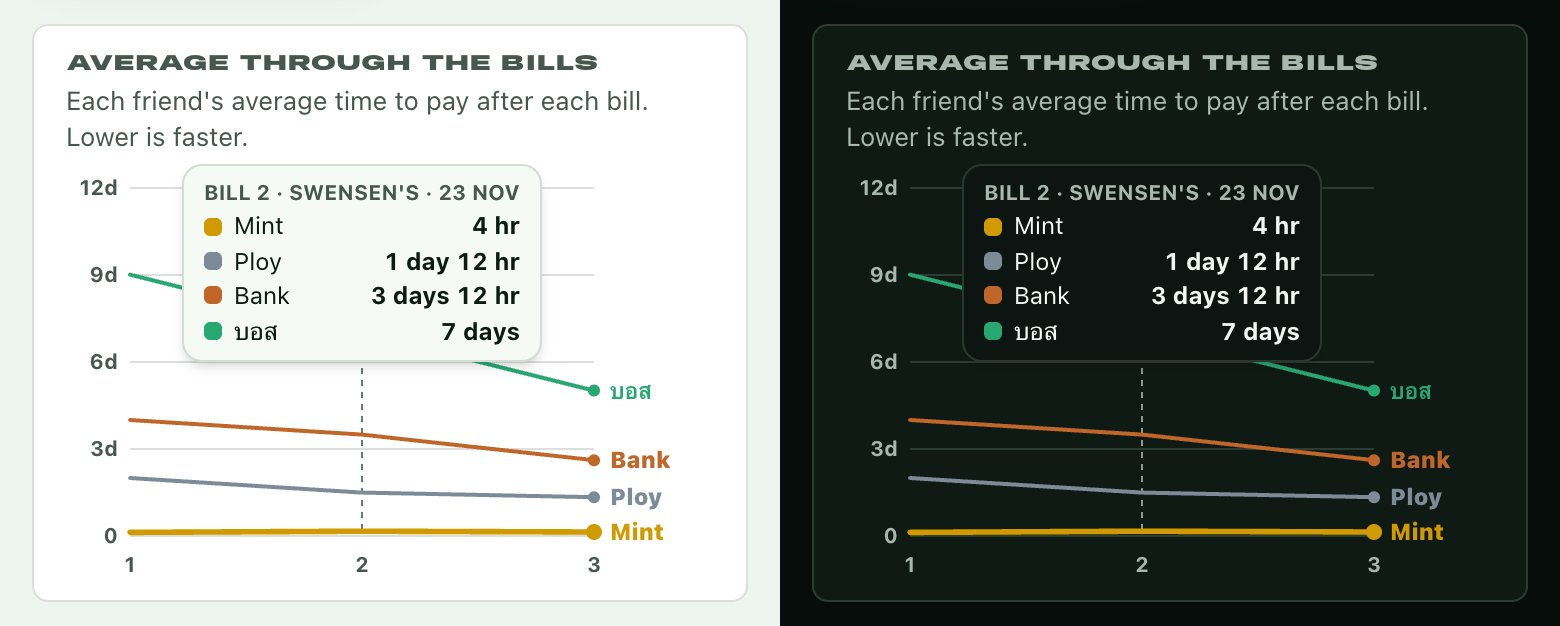
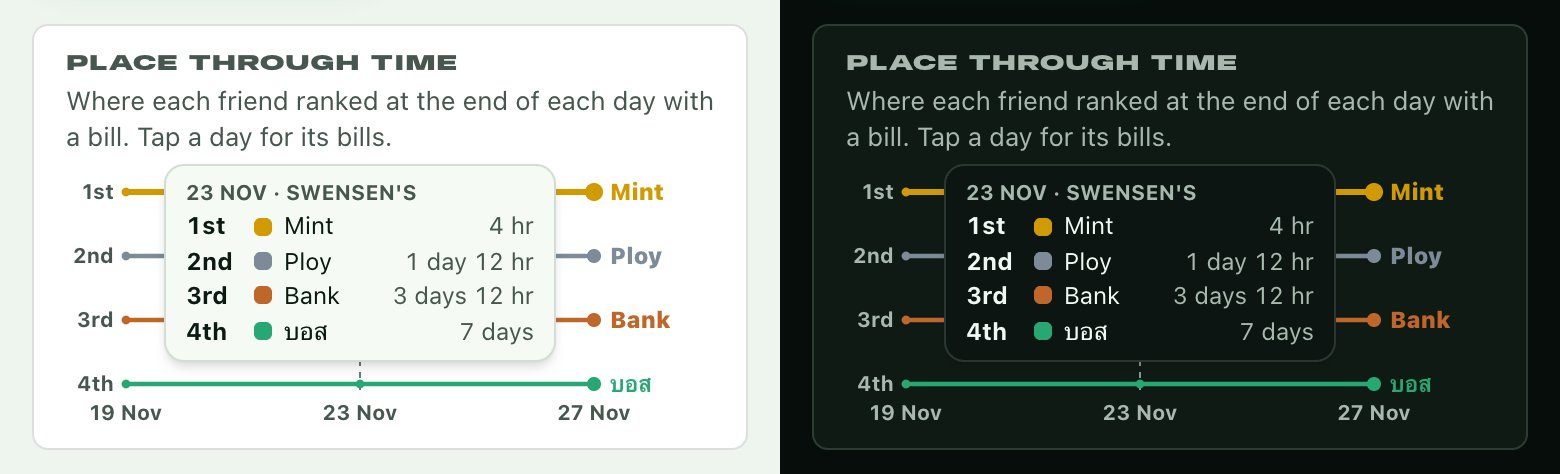
Who pays fastest: the chart shows places, a day at a time
Place through time: the days with bills along the bottom (a day's bills
count as one step), 1st at the top, and each friend's place at the end of
each day, ending at today's ranking. A tapped day lists its bills and
everyone's place and average then. payChart works out the days and places.
README and screenshot.

diff --git a/src/components/FastestChart.tsx b/src/components/FastestChart.tsx
@@ -3,42 +3,35 @@
 import { useEffect, useRef, useState } from "react";
 import { duration } from "@/lib/owed";
 
-export interface ChartBill {
-  title: string;
-  /** the bill's day, YYYY-MM-DD */
+export interface ChartDay {
+  /** YYYY-MM-DD */
   day: string;
+  /** that day's bills */
+  titles: string[];
 }
 export interface ChartLine {
   name: string;
-  /** place in the ranking, 1 = fastest */
+  /** place in the ranking now, 1 = fastest */
   place: number;
-  /** their average time to pay after each bill (ms); null before their first bill */
+  /** their average time to pay at the end of each day (ms); null before their first bill */
   vals: (number | null)[];
+  /** their place at the end of each day; null before their first bill */
+  places: (number | null)[];
 }
 
 /** Line colours by place: the podium's, deep enough to read as lines; everyone else dashed grey. */
 const STROKE = ["#D19A00", "#7D8A97", "#C0662A", "#27A873", "#3A86D0"];
 const strokeOf = (place: number) => STROKE[place - 1] ?? "var(--ink-3)";
-
-const M = 60_000;
-const H = 60 * M;
-const D = 24 * H;
-const STEPS = [5 * M, 10 * M, 15 * M, 30 * M, H, 2 * H, 3 * H, 6 * H, 12 * H, D, 2 * D, 3 * D, 5 * D, 7 * D, 14 * D, 30 * D];
-/** A round top for the axis, about four gridlines. */
-function scale(max: number) {
-  const step = STEPS.find((s) => s >= max / 4) ?? Math.ceil(max / 4 / (30 * D)) * 30 * D;
-  return { top: Math.max(step, Math.ceil(max / step) * step), step };
-}
-const tick = (v: number) => (v === 0 ? "0" : v % D === 0 ? `${v / D}d` : v % H === 0 ? `${v / H}h` : `${Math.round(v / M)}m`);
+const ordinal = (n: number) => `${n}${n % 100 >= 11 && n % 100 <= 13 ? "th" : (["th", "st", "nd", "rd"][n % 10] ?? "th")}`;
 const shortDay = (day: string) => new Date(`${day}T12:00:00+07:00`).toLocaleDateString("en-GB", { day: "numeric", month: "short", timeZone: "Asia/Bangkok" });
 
 /**
- * "Average through the bills", like a season's points chart: bills along the bottom in the
- * order they started, and each friend's average time to pay after each one (lower is
- * faster), so their line ends where the ranking puts them. The fastest gets a filled line;
- * tap or hover a bill for everyone's average there.
+ * "Place through time", like a season's positions chart: the days with bills along the
+ * bottom, 1st at the top, and a line per friend showing where they ranked at the end of each
+ * day (by average time to pay). Their line ends at today's place. Tap or hover a day for its
+ * bills and everyone's place and average then.
  */
-export function FastestChart({ bills, lines }: { bills: ChartBill[]; lines: ChartLine[] }) {
+export function FastestChart({ days, lines }: { days: ChartDay[]; lines: ChartLine[] }) {
   const box = useRef<HTMLDivElement>(null);
   const [w, setW] = useState(0);
   const [at, setAt] = useState<number | null>(null);
@@ -50,31 +43,22 @@ export function FastestChart({ bills, lines }: { bills: ChartBill[]; lines: Char
     return () => ro.disconnect();
   }, []);
 
-  const n = bills.length;
-  const h = w < 520 ? 210 : 250;
-  const L = 36, R = 64, T = 12, B = 24;
-  const all = lines.flatMap((l) => l.vals.filter((v): v is number => v !== null));
-  const { top, step } = scale(Math.max(H, ...all));
+  const n = days.length;
+  const people = lines.length;
+  const places = lines.map((l) => l.places);
+  const L = 34, R = 64, T = 14, B = 30;
+  // A row for each place.
+  const h = T + B + Math.max(1, people - 1) * (people > 6 ? 24 : 32);
   const x = (i: number) => L + (i * (w - L - R)) / Math.max(1, n - 1);
-  const y = (v: number) => T + (1 - v / top) * (h - T - B);
-  const every = Math.max(1, Math.ceil(n / Math.max(1, Math.floor((w - L - R) / 26))));
-  const path = (l: ChartLine) =>
-    l.vals
-      .map((v, i) => (v === null ? null : `${x(i).toFixed(1)},${y(v).toFixed(1)}`))
-      .reduce<string>((d, p) => (p === null ? d : `${d}${d ? "L" : "M"}${p}`), "");
+  const y = (p: number) => (people === 1 ? (T + h - B) / 2 : T + ((p - 1) * (h - T - B)) / (people - 1));
+  // Dates need about 44px each.
+  const every = Math.max(1, Math.ceil(n / Math.max(1, Math.floor((w - L - R) / 44))));
+  const path = (k: number) =>
+    places[k]
+      .map((p, i) => (p === null ? null : `${x(i).toFixed(1)},${y(p).toFixed(1)}`))
+      .reduce<string>((d, pt) => (pt === null ? d : `${d}${d ? "L" : "M"}${pt}`), "");
   // Slowest first, so the faster lines sit on top.
-  const drawn = [...lines].sort((a, b) => b.place - a.place);
-  const first = lines.find((l) => l.place === 1);
-  const firstStart = first ? first.vals.findIndex((v) => v !== null) : -1;
-
-  // Name labels at the line ends, pushed apart when lines finish close together.
-  const ends = lines
-    .filter((l) => l.vals[n - 1] !== null)
-    .map((l) => ({ l, y: y(l.vals[n - 1]!) }))
-    .sort((a, b) => a.y - b.y);
-  for (let k = 1; k < ends.length; k++) ends[k].y = Math.max(ends[k].y, ends[k - 1].y + 13);
-  const over = ends.length ? ends[ends.length - 1].y - (h - B) : 0;
-  if (over > 0) for (const e of ends) e.y -= over;
+  const drawn = lines.map((l, k) => ({ l, k })).sort((a, b) => b.l.place - a.l.place);
 
   function pick(clientX: number) {
     const el = box.current;
@@ -84,8 +68,14 @@ export function FastestChart({ bills, lines }: { bills: ChartBill[]; lines: Char
     for (let k = 0; k < n; k++) if (Math.abs(x(k) - px) < Math.abs(x(i) - px)) i = k;
     setAt(i);
   }
-  const tipRows = at === null ? [] : lines.filter((l) => l.vals[at] !== null).sort((a, b) => a.vals[at]! - b.vals[at]!);
-  const tipW = 180;
+  const tipRows =
+    at === null
+      ? []
+      : lines
+          .map((l, k) => ({ l, p: places[k][at], v: l.vals[at] }))
+          .filter((r): r is { l: ChartLine; p: number; v: number } => r.p !== null && r.v !== null)
+          .sort((a, b) => a.p - b.p);
+  const tipW = 196;
 
   return (
     <div
@@ -96,56 +86,49 @@ export function FastestChart({ bills, lines }: { bills: ChartBill[]; lines: Char
       onPointerLeave={(e) => e.pointerType === "mouse" && setAt(null)}
     >
       {w > 0 && (
-        <svg viewBox={`0 0 ${w} ${h}`} className="block h-auto w-full overflow-visible" role="img" aria-label="Average time to pay after each bill">
-          <defs>
-            <linearGradient id="fastest-fill" x1="0" x2="0" y1="0" y2="1">
-              <stop offset="0" stopColor={STROKE[0]} stopOpacity={0.26} />
-              <stop offset="1" stopColor={STROKE[0]} stopOpacity={0} />
-            </linearGradient>
-          </defs>
-          {Array.from({ length: Math.floor(top / step) + 1 }, (_, k) => k * step).map((v) => (
-            <g key={v}>
-              <line x1={L} x2={w - R} y1={y(v)} y2={y(v)} stroke="var(--line)" strokeWidth={1} />
-              <text x={L - 6} y={y(v) + 3.5} textAnchor="end" className="fill-ink-2 text-[10.5px] font-bold">
-                {tick(v)}
+        <svg viewBox={`0 0 ${w} ${h}`} className="block h-auto w-full overflow-visible" role="img" aria-label="Each friend's place at the end of each day with a bill">
+          {Array.from({ length: people }, (_, k) => k + 1).map((p) => (
+            <g key={p}>
+              <line x1={L} x2={w - R} y1={y(p)} y2={y(p)} stroke="var(--line)" strokeWidth={1} />
+              <text x={L - 6} y={y(p) + 3.5} textAnchor="end" className="fill-ink-2 text-[10.5px] font-bold">
+                {ordinal(p)}
               </text>
             </g>
           ))}
-          {bills.map((_, i) =>
+          {days.map((d, i) =>
             (n - 1 - i) % every === 0 ? (
-              <text key={i} x={x(i)} y={h - 6} textAnchor="middle" className="fill-ink-2 text-[10.5px] font-bold">
-                {i + 1}
+              <text key={d.day} x={x(i)} y={h - 6} textAnchor="middle" className="fill-ink-2 text-[10.5px] font-bold">
+                {shortDay(d.day)}
               </text>
             ) : null,
           )}
-          {at !== null && <line x1={x(at)} x2={x(at)} y1={T} y2={h - B} stroke="var(--ink-2)" strokeWidth={1} strokeDasharray="3 3" opacity={0.8} />}
-          {first && firstStart >= 0 && (
-            <path d={`${path(first)}L${x(n - 1)},${y(0)}L${x(firstStart)},${y(0)}Z`} fill="url(#fastest-fill)" />
-          )}
-          {drawn.map((l) => {
-            const last = l.vals[n - 1];
+          {at !== null && <line x1={x(at)} x2={x(at)} y1={T - 6} y2={h - B + 6} stroke="var(--ink-2)" strokeWidth={1} strokeDasharray="3 3" opacity={0.8} />}
+          {drawn.map(({ l, k }) => {
             const podium = l.place <= 5;
+            const last = places[k][n - 1];
             return (
               <g key={l.name + l.place}>
                 <path
-                  d={path(l)}
+                  d={path(k)}
                   fill="none"
                   stroke={strokeOf(l.place)}
-                  strokeWidth={l.place === 1 ? 2.8 : podium ? 2 : 1.6}
+                  strokeWidth={l.place === 1 ? 3 : podium ? 2.2 : 1.6}
                   strokeLinejoin="round"
                   strokeLinecap="round"
                   strokeDasharray={podium ? undefined : "4 4"}
                   opacity={podium ? 1 : 0.75}
                 />
-                {last !== null && <circle cx={x(n - 1)} cy={y(last)} r={l.place === 1 ? 4 : 3} fill={strokeOf(l.place)} />}
+                {/* A dot at each day, so a step reads as a day that changed things. */}
+                {places[k].map((p, i) => (p === null || i === n - 1 ? null : <circle key={i} cx={x(i)} cy={y(p)} r={2.2} fill={strokeOf(l.place)} />))}
+                {last !== null && <circle cx={x(n - 1)} cy={y(last)} r={l.place === 1 ? 4.5 : 3.5} fill={strokeOf(l.place)} />}
+                {last !== null && (
+                  <text x={x(n - 1) + 8} y={y(last) + 4} fill={strokeOf(l.place)} className="text-[11.5px] font-black">
+                    {l.name.length > 8 ? `${l.name.slice(0, 7)}…` : l.name}
+                  </text>
+                )}
               </g>
             );
           })}
-          {ends.map(({ l, y: ly }) => (
-            <text key={l.name + l.place} x={x(n - 1) + 8} y={ly + 4} fill={strokeOf(l.place)} className="text-[11.5px] font-black">
-              {l.name.length > 8 ? `${l.name.slice(0, 7)}…` : l.name}
-            </text>
-          ))}
         </svg>
       )}
       {at !== null && (
@@ -154,13 +137,14 @@ export function FastestChart({ bills, lines }: { bills: ChartBill[]; lines: Char
           style={{ left: Math.min(Math.max(0, x(at) - tipW / 2), Math.max(0, w - tipW)), width: tipW }}
         >
           <b className="block truncate text-[10.5px] font-bold text-ink-2 uppercase">
-            Bill {at + 1} · {bills[at].title} · {shortDay(bills[at].day)}
+            {shortDay(days[at].day)} · {days[at].titles.join(", ")}
           </b>
-          {tipRows.map((l) => (
+          {tipRows.map(({ l, p, v }) => (
             <span key={l.name + l.place} className="flex items-center gap-1.5">
+              <b className="w-7 shrink-0 tabular-nums">{ordinal(p)}</b>
               <i className="inline-block size-[9px] shrink-0 rounded-[3px]" style={{ background: strokeOf(l.place) }} />
               <span className="min-w-0 flex-1 truncate">{l.name}</span>
-              <b className="tabular-nums">{duration(l.vals[at]!)}</b>
+              <span className="text-ink-2 tabular-nums">{duration(v)}</span>
             </span>
           ))}
         </div>

diff --git a/src/lib/owed.ts b/src/lib/owed.ts
@@ -374,36 +374,48 @@ export function payTimes(bills: StoredBill[], now = Date.now()): PayerTimes[] {
 const byText = (a: string, b: string) => (a < b ? -1 : a > b ? 1 : 0);
 
 /**
- * The ranking through time, for the chart: every bill once, in the order they started, and
- * each person's average time to pay after each bill (null before their first). A bill
- * they're not in keeps their average where it was; the last point is the ranking's.
+ * The ranking through time, for the chart, a day at a time: every day with a bill, oldest
+ * first (bills of a day count as one step, in the order they started), and each person's
+ * average time to pay at the end of each day and their place then. A day they had no bill
+ * keeps their average; null before their first. The last day is today's ranking.
  */
 export function payChart(times: PayerTimes[]): {
-  bills: { title: string; day: string }[];
-  lines: { name: string; place: number; vals: (number | null)[] }[];
+  days: { day: string; titles: string[] }[];
+  lines: { name: string; place: number; vals: (number | null)[]; places: (number | null)[] }[];
 } {
   const byId = new Map(times.flatMap((p) => p.bills.map((b) => [b.id, b] as const)));
-  const order = [...byId.values()].sort((a, b) => a.from - b.from || byText(a.id, b.id));
-  return {
-    bills: order.map((b) => ({ title: b.title, day: b.day })),
-    lines: times.map((p, i) => {
-      const mine = new Map(p.bills.map((b) => [b.id, b.ms]));
-      let sum = 0;
-      let count = 0;
-      return {
-        name: p.look.name,
-        place: i + 1,
-        vals: order.map((b) => {
-          const ms = mine.get(b.id);
-          if (ms !== undefined) {
-            sum += ms;
-            count++;
-          }
-          return count ? sum / count : null;
-        }),
-      };
-    }),
-  };
+  const order = [...byId.values()].sort((a, b) => (a.day < b.day ? -1 : a.day > b.day ? 1 : 0) || a.from - b.from || byText(a.id, b.id));
+  const days: { day: string; titles: string[]; last: number }[] = [];
+  order.forEach((b, i) => {
+    const d = days.at(-1);
+    if (d && d.day === b.day) {
+      d.titles.push(b.title);
+      d.last = i;
+    } else days.push({ day: b.day, titles: [b.title], last: i });
+  });
+  const lines = times.map((p, k) => {
+    const mine = new Map(p.bills.map((b) => [b.id, b.ms]));
+    let sum = 0;
+    let count = 0;
+    const perBill = order.map((b) => {
+      const ms = mine.get(b.id);
+      if (ms !== undefined) {
+        sum += ms;
+        count++;
+      }
+      return count ? sum / count : null;
+    });
+    return { name: p.look.name, place: k + 1, vals: days.map((d) => perBill[d.last]), places: [] as (number | null)[] };
+  });
+  // Places each day among those who'd had a bill, ties going the way today's ranking does.
+  days.forEach((_, i) => {
+    for (const l of lines) l.places[i] = null;
+    lines
+      .filter((l) => l.vals[i] !== null)
+      .sort((a, b) => a.vals[i]! - b.vals[i]! || a.place - b.place)
+      .forEach((l, rank) => (l.places[i] = rank + 1));
+  });
+  return { days: days.map(({ day, titles }) => ({ day, titles })), lines };
 }
 
 /**

diff --git a/src/lib/owed.test.ts b/src/lib/owed.test.ts
@@ -271,9 +271,9 @@ describe("when someone unpaid gets passed (Who pays fastest countdown)", () => {
   });
 });
 
-describe("the ranking through the bills (Who pays fastest chart)", () => {
+describe("the ranking through time (Who pays fastest chart)", () => {
   const H = 3_600_000;
-  const bill = (id: string, from: number, ms: number) => ({ id, title: id, day: "2026-11-01", amount: 1, currency: "THB", ms, ref: "", from });
+  const bill = (id: string, day: string, from: number, ms: number) => ({ id, title: id, day, amount: 1, currency: "THB", ms, ref: "", from });
   const person = (name: string, bills: ReturnType<typeof bill>[]): PayerTimes => ({
     key: name,
     look: { name },
@@ -284,16 +284,21 @@ describe("the ranking through the bills (Who pays fastest chart)", () => {
     bills,
   });
 
-  it("orders the bills by start and keeps each person's running average", () => {
-    const mint = person("Mint", [bill("b2", 200, 4 * H), bill("b1", 100, 2 * H)]);
-    const ploy = person("Ploy", [bill("b2", 200, 10 * H)]);
+  it("a point per day, oldest first, with each person's average and place at the end of the day", () => {
+    // 1 Nov: lunch (Ploy only). 5 Nov: dinner and karaoke, one step.
+    const mint = person("Mint", [bill("dinner", "2026-11-05", 300, 2 * H), bill("karaoke", "2026-11-05", 400, 4 * H)]);
+    const ploy = person("Ploy", [bill("lunch", "2026-11-01", 100, 1 * H), bill("dinner", "2026-11-05", 300, 9 * H)]);
     const c = payChart([mint, ploy]);
-    expect(c.bills.map((b) => b.title)).toEqual(["b1", "b2"]);
-    expect(c.lines).toEqual([
-      { name: "Mint", place: 1, vals: [2 * H, 3 * H] },
-      { name: "Ploy", place: 2, vals: [null, 10 * H] },
+    expect(c.days).toEqual([
+      { day: "2026-11-01", titles: ["lunch"] },
+      { day: "2026-11-05", titles: ["dinner", "karaoke"] },
     ]);
-    // The last point is the ranking's average.
+    expect(c.lines).toEqual([
+      { name: "Mint", place: 1, vals: [null, 3 * H], places: [null, 1] },
+      // Ploy led on 1 Nov (alone), then dropped to 2nd.
+      { name: "Ploy", place: 2, vals: [1 * H, 5 * H], places: [1, 2] },
+    ]);
+    // The last day is today's ranking.
     expect(c.lines.map((l) => l.vals.at(-1))).toEqual([mint.avgMs, ploy.avgMs]);
   });
 });

diff --git a/src/app/o/[id]/fastest/page.tsx b/src/app/o/[id]/fastest/page.tsx
@@ -93,11 +93,11 @@ export default async function FastestPage({ params }: PageProps<"/o/[id]/fastest
         <>
           <Podium top={b.times.slice(0, 5)} />
           <FastestShare id={id} organiser={b.organiser.name} />
-          {chart.bills.length > 1 && (
-            <section className="card px-3 pt-3 pb-2" aria-label="Average through the bills">
-              <h2 className="section-label px-1">Average through the bills</h2>
-              <p className="mb-1 px-1 text-[13px] text-ink-2">Each friend&apos;s average time to pay after each bill. Lower is faster.</p>
-              <FastestChart bills={chart.bills} lines={chart.lines} />
+          {chart.days.length > 1 && (
+            <section className="card px-3 pt-3 pb-2" aria-label="Place through time">
+              <h2 className="section-label px-1">Place through time</h2>
+              <p className="mb-1 px-1 text-[13px] text-ink-2">Where each friend ranked at the end of each day with a bill. Tap a day for its bills.</p>
+              <FastestChart days={chart.days} lines={chart.lines} />
             </section>
           )}
         </>

diff --git a/README.md b/README.md
@@ -54,7 +54,7 @@ The link preview friends see in chat:
 **History and the phone**
 - **History**, newest bill date first; tap a person (or a friend on the Friends page) to see your splits with them, what they owe you (or you owe them), and how fast they pay you: their average and their place in **Who pays fastest** ("So far 1 day 8 hr on average · 2nd of 4"). Tap yourself to see what you spent.
 - **Owed to you:** every friend who still owes you, with their total, the names of their unpaid bills and how long they've waited ("for 16 days", amber after a week). Tick a bill paid (in full or part) right there, or **Mark all paid** for a friend.
-- **Who pays fastest:** its own page (History → Who pays fastest, or from "Owed to you", the shared list, and every bill a friend opens, next to What I owe), with the top five on a podium (gold, silver, bronze, mint and sky, with matching badges in the ranking), on the page and on its link preview. Friends are ranked by how long they take to pay, in days, hours and minutes from when the bill was shared to when they paid: the time printed on their transfer slip when there is one (even a slip sent in after you ticked them; older slips are read again for their time when you open the page), otherwise when you ticked them. A bill they haven't paid counts the time so far, so not paying moves them down. Someone still unpaid has a countdown to when a friend below them passes them ("Bank passes them in 3 days 19 hr"): their average keeps rising while a bill waits, and the page reorders when it runs out. On top, **Next place change** shows the soonest one as a race (Bank chasing Ploy along a track, Ploy wearing their place badge) with a clock ticking down each second in the poster type, like its heading ("3D 19:48:35"). **Average through the bills** is a line chart like a season's points chart: the bills along the bottom in the order they started, each friend's average time to pay after each one (lower is faster) in their podium colour, the fastest filled in, ending where the ranking puts them; tap a bill for everyone's average there. Tap a friend for their average, fastest and slowest payment and every bill: when it was paid and how long it took, or how long it has waited. Ties go A–Z, and it's the same page for you and for anyone with the list. **Share** or **Copy link** sends the page (its preview shows the podium). On your phone, the pencil under a paid bill's amount changes **when someone paid** (say, from your bank statement): it shows how long that makes it, and the slip or tick time it replaces, with **Reset** to go back. **Hide** (only on your phone) leaves chosen friends out, or stops chosen bills counting (say, one you ticked long after it was paid), or sets when a bill really started (for bills shared before 10 Nov 2026, whose share time wasn't kept: **Use receipt times** fills it from the time printed on their receipt photo), in the ranking, the podium and the preview, for everyone. **Show on my bills**, in the same sheet, decides whether friends who open one of your bills get the link to this page (on until you switch it off). A changed start keeps the bill's own time in view under it ("Original: 9 Nov 2026, 13:25"), so you can compare without pressing **Reset**.
+- **Who pays fastest:** its own page (History → Who pays fastest, or from "Owed to you", the shared list, and every bill a friend opens, next to What I owe), with the top five on a podium (gold, silver, bronze, mint and sky, with matching badges in the ranking), on the page and on its link preview. Friends are ranked by how long they take to pay, in days, hours and minutes from when the bill was shared to when they paid: the time printed on their transfer slip when there is one (even a slip sent in after you ticked them; older slips are read again for their time when you open the page), otherwise when you ticked them. A bill they haven't paid counts the time so far, so not paying moves them down. Someone still unpaid has a countdown to when a friend below them passes them ("Bank passes them in 3 days 19 hr"): their average keeps rising while a bill waits, and the page reorders when it runs out. On top, **Next place change** shows the soonest one as a race (Bank chasing Ploy along a track, Ploy wearing their place badge) with a clock ticking down each second in the poster type, like its heading ("3D 19:48:35"). **Place through time** is a positions chart like a season's: the days with bills along the bottom (a day's bills count as one step), 1st at the top, and a line per friend in their podium colour showing where they ranked at the end of each day, ending at today's place; tap a day for its bills and everyone's place and average then. Tap a friend for their average, fastest and slowest payment and every bill: when it was paid and how long it took, or how long it has waited. Ties go A–Z, and it's the same page for you and for anyone with the list. **Share** or **Copy link** sends the page (its preview shows the podium). On your phone, the pencil under a paid bill's amount changes **when someone paid** (say, from your bank statement): it shows how long that makes it, and the slip or tick time it replaces, with **Reset** to go back. **Hide** (only on your phone) leaves chosen friends out, or stops chosen bills counting (say, one you ticked long after it was paid), or sets when a bill really started (for bills shared before 10 Nov 2026, whose share time wasn't kept: **Use receipt times** fills it from the time printed on their receipt photo), in the ranking, the podium and the preview, for everyone. **Show on my bills**, in the same sheet, decides whether friends who open one of your bills get the link to this page (on until you switch it off). A changed start keeps the bill's own time in view under it ("Original: 9 Nov 2026, 13:25"), so you can compare without pressing **Reset**.
 - **What I owe:** on a friend's phone, everything they still owe, grouped by who they pay (to the organiser, or to each payer): the bills they've opened, plus the same organisers' other bills they still owe on, also ones whose link they never got. **Pay** lets them tick which bills to pay (or all), with one QR for that total, and one slip pays the ticked bills, oldest first ("Already paid?" at the top uploads a slip straight away). They pick their name once from everyone who still owes in those friends' bills; picking themselves to pay or upload a slip also tells the app.
 - **Who still owes (shareable list):** one link (`/o/…`, with its own preview card: the total, the people and the names of the unpaid bills) showing everyone who still owes you, A–Z, with all their unpaid bills, how long each has gone unpaid ("Unpaid for 16 days", "9 days ago") and a link to **Who pays fastest**; each person can **Pay** (one QR for their total) or upload a slip there. Copy or share it from "Owed to you".
 - **Friends** page: tap a friend to see their splits. Renaming a friend (or yourself) updates every bill you've shared, old ones too (friends typed into older bills are found by name).
@@ -68,7 +68,7 @@ The link preview friends see in chat:
   <img src="docs/screenshots/owed.jpg" alt="Owed to you: each friend with their unpaid bills by name and how long they've waited, light and dark" width="380">
   <img src="docs/screenshots/pays-fastest.jpg" alt="Who pays fastest: the top five on a podium with Share and Copy link, Hide, and each friend's bills with how long they took to pay and a pencil to change it, light and dark" width="380">
   <img src="docs/screenshots/fastest-paid.jpg" alt="When did Mint pay?: the paid time changed from the tick's 20:00 to 13:05, paid after 17 hr, with the original time and Reset, light and dark" width="380">
-  <img src="docs/screenshots/fastest-chart.jpg" alt="Who pays fastest: Average through the bills, a line per friend with a bill tapped showing everyone's average there, light and dark" width="380">
+  <img src="docs/screenshots/fastest-chart.jpg" alt="Who pays fastest: Place through time, a line per friend by place with a day tapped showing everyone's place and average, light and dark" width="380">
   <img src="docs/screenshots/fastest-next.jpg" alt="Who pays fastest: Next place change on top as a race, Bank chasing Ploy for 2nd with a ticking clock, above the podium, light and dark" width="380">
   <img src="docs/screenshots/fastest-pass.jpg" alt="Who pays fastest: an unpaid friend's countdown to when the friend below passes them, light and dark" width="380">
   <img src="docs/screenshots/fastest-hide.jpg" alt="What counts in Who pays fastest: bills to leave out, when each bill counts from, with the original time under a changed one, and the Show on my bills switch, light and dark" width="380">
